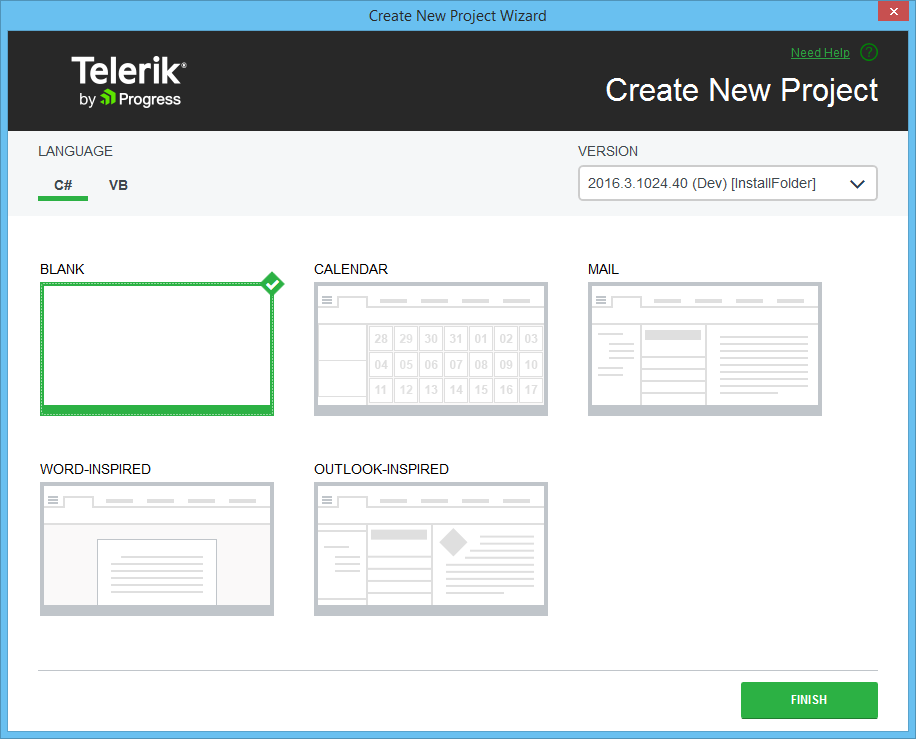
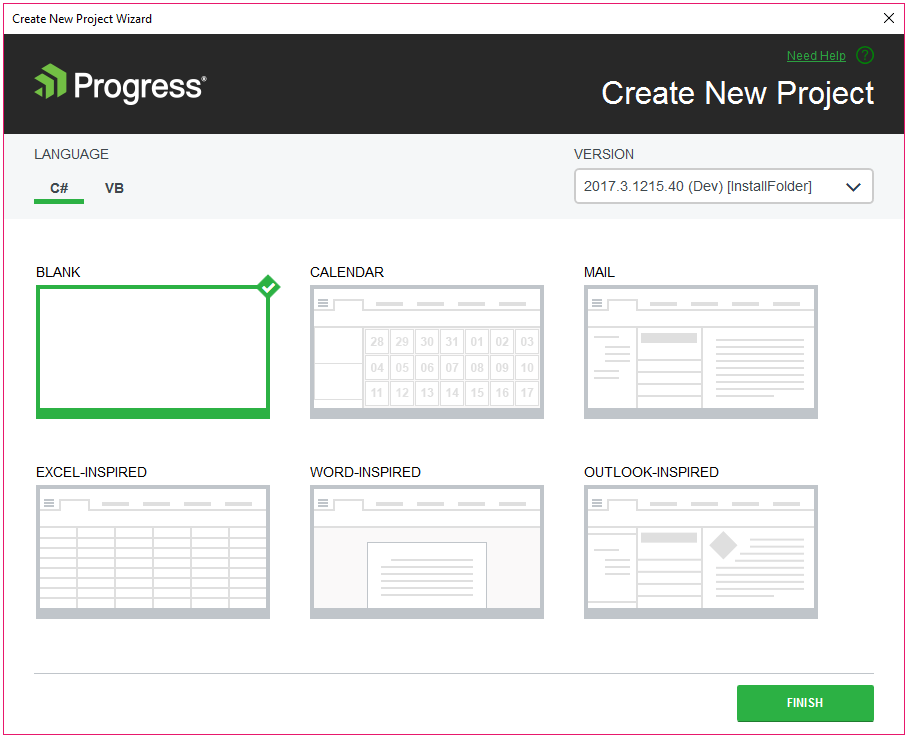
Add the new Spreadsheet template info in the documentation

diff --git a/visual-studio-templates.md b/visual-studio-templates.md
@@ -20,6 +20,8 @@ The [Visual Studio Extensions]({%slug winforms/installation-deployment-and-distr
 
 * [Outlook-Inspired Calendar Template](#outlook-inspired-calendar-template) (available with Q2 2015 release version)
 
+* [Excel-Inspired Template](#excel-inspired-template) (available with Q3 2017 SP1 release version)
+
 >note The [Word-Inspired Template](#word-inspired-template) uses the __TelerikMetro__ theme. The outlook inspired templates make use of the __TelerikMetroBlue__ theme.
 
 In this article you will find more information on how to create a project from one of the available templates as well as more details regarding what controls each template contains.
@@ -29,6 +31,7 @@ In this article you will find more information on how to create a project from o
 When creating new project, select the needed template as seen on __Figure 1__.
 
 >caption Figure 1: Select Template
+
 ![visual studio templates 001](images/visual-studio-templates001.png)
 
 ## Word-Inspired Template
@@ -77,6 +80,13 @@ The Outlook-Inspired Calendar Template can be used separately and it has been in
 
 >caption Figure 4: Outlook-Inspired Calendar Template
 ![visual studio templates 004](images/visual-studio-templates004.png)
+
+## Excel-Inspired Template
+
+The Excel-Inspired Template implements Excel-like editing experience represented with the Telerik UI for WinForms controls. It provides a complex integration of controls like **RadSpreadsheetRibbonBar** and **RadSpreadsheet** in an already set up example.You can see how the template looks like on __Figure 5__.
+
+>caption Figure 5: Excel-Inspired Template
+![visual studio templates 005](images/visual-studio-templates005.png)
 
 # See Also
 
